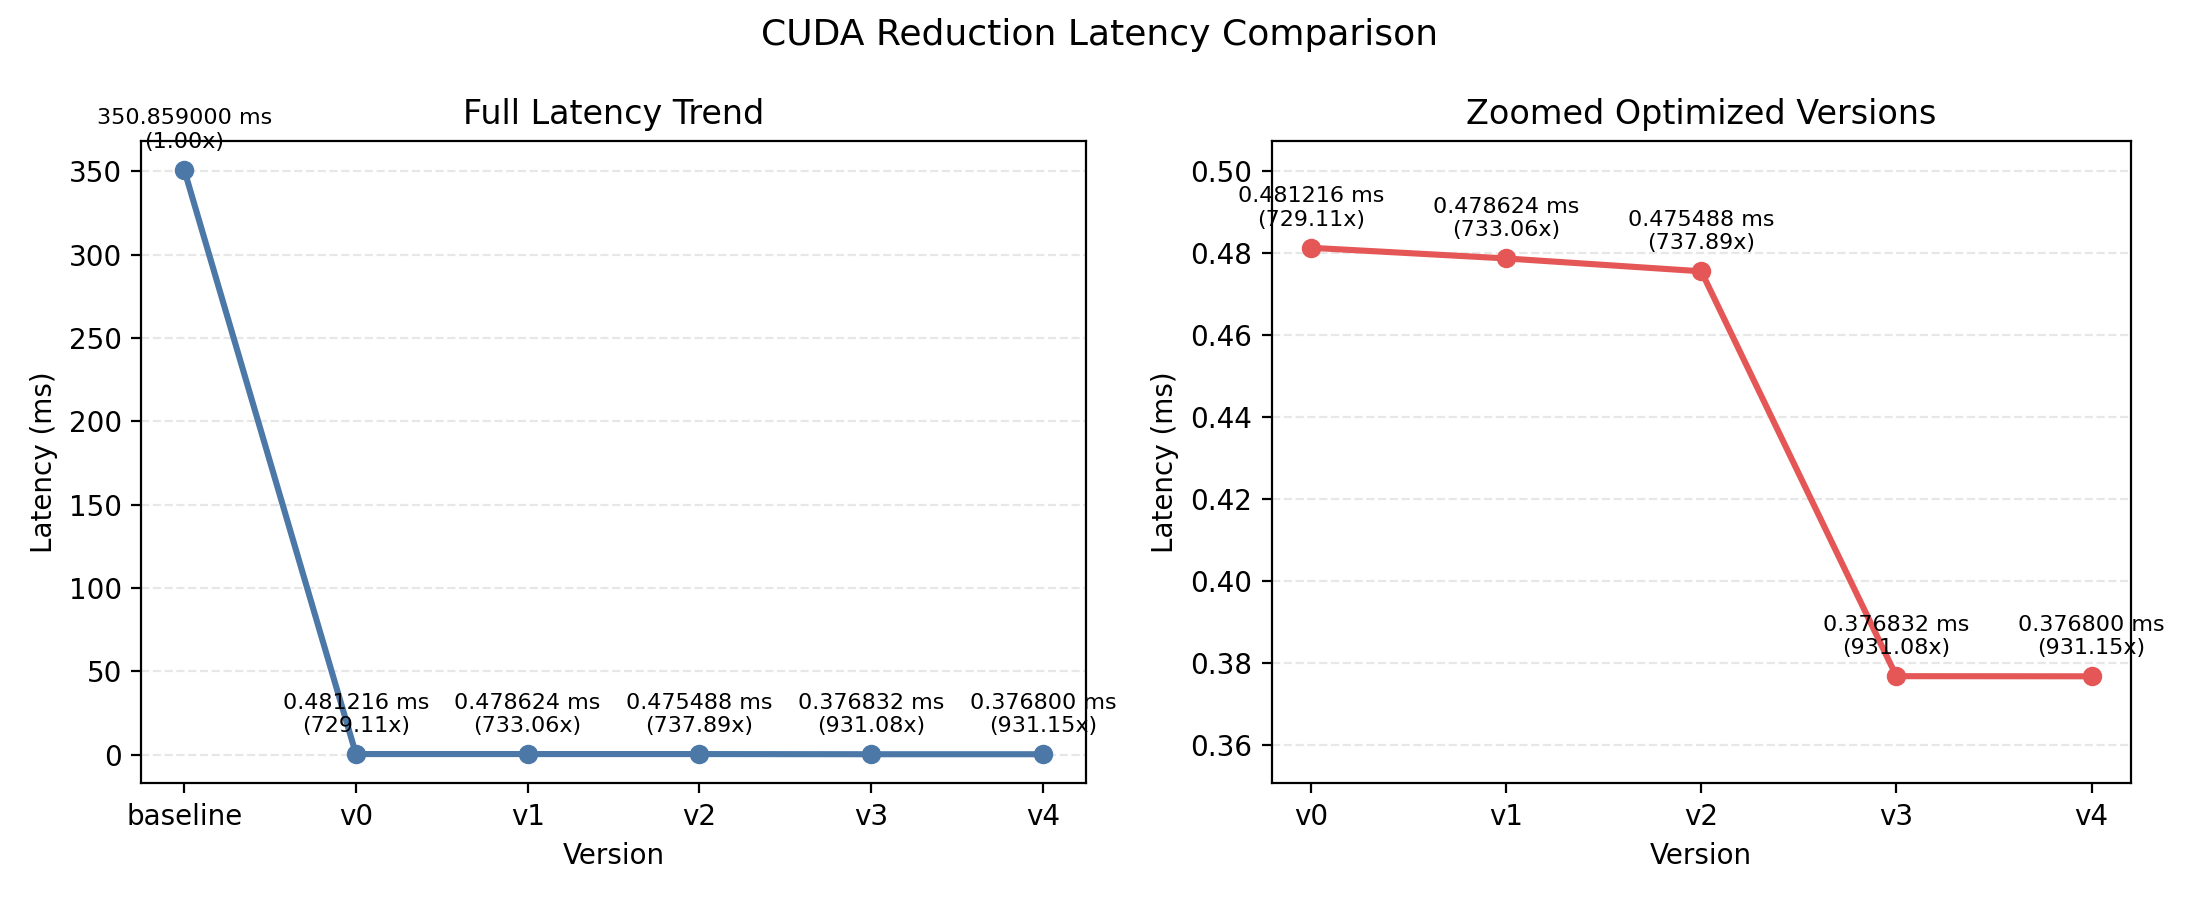
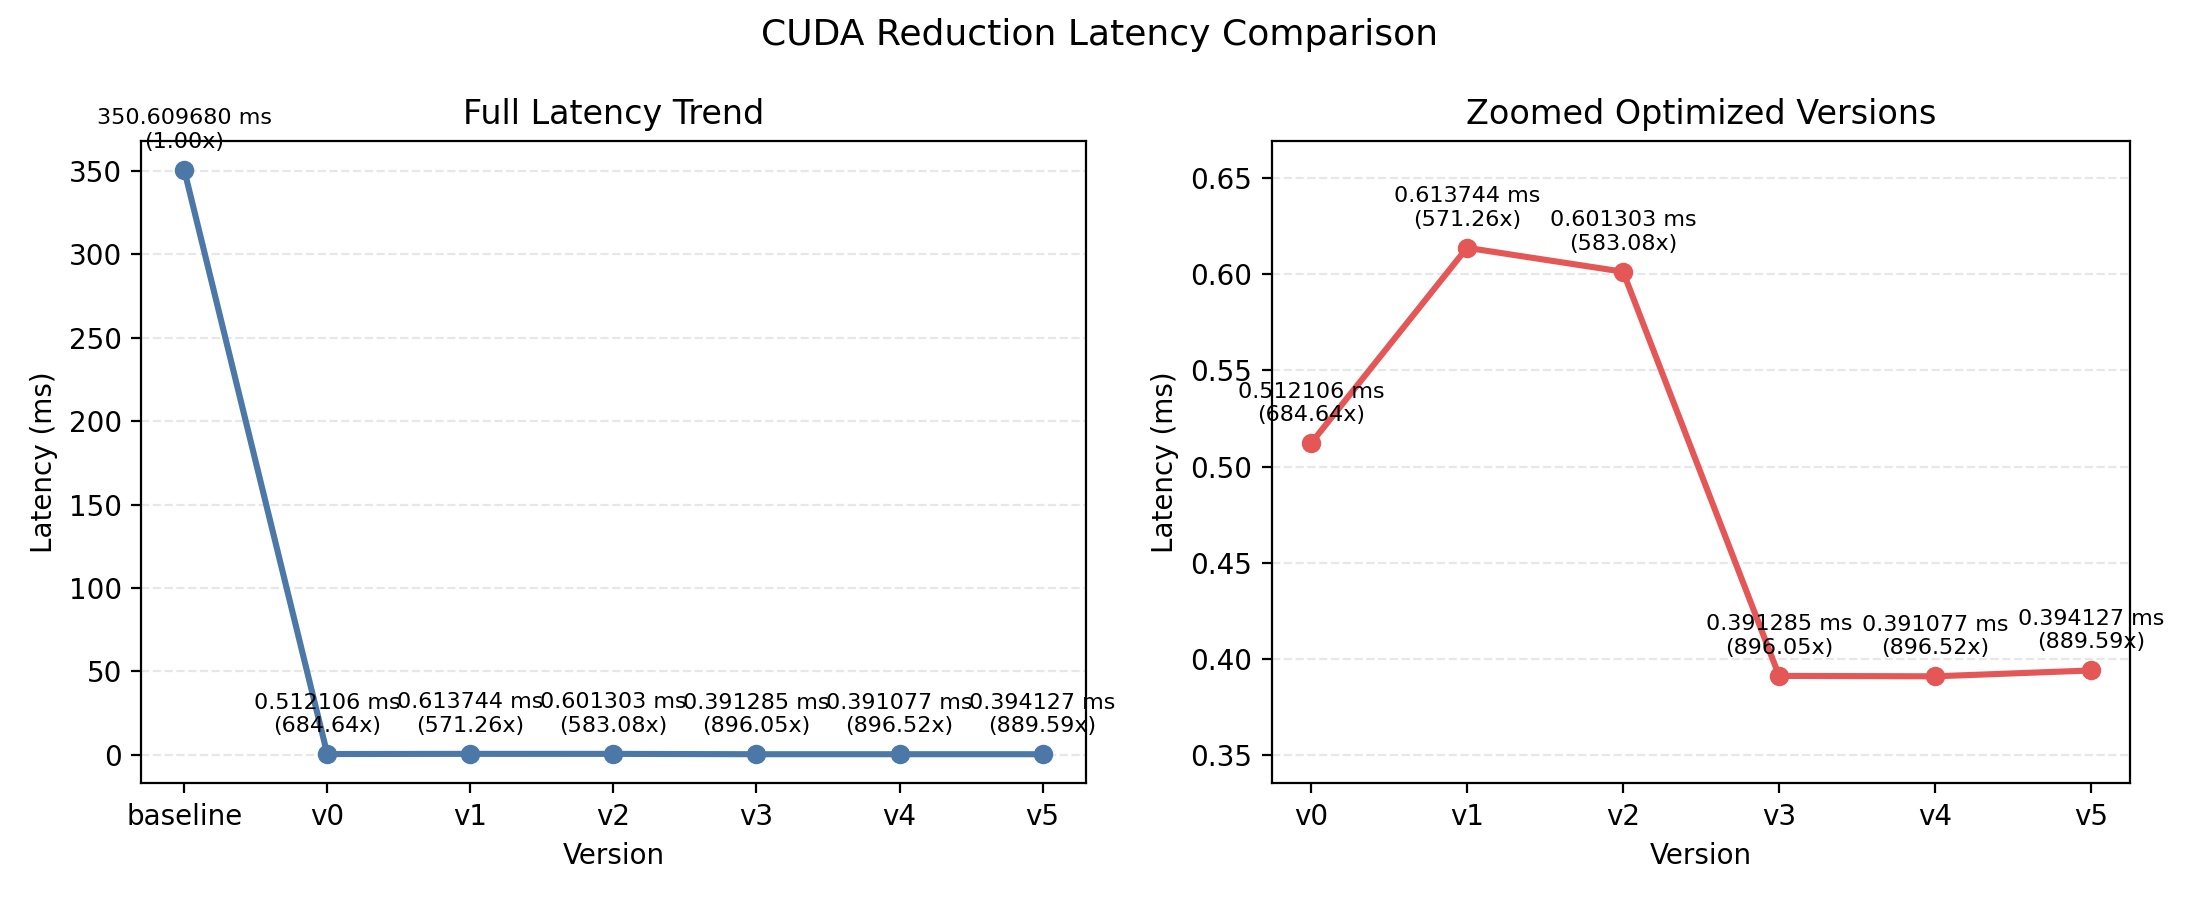
docs: refresh benchmark records and regenerated figures

diff --git a/project-proof/docs/experiment-summary.md b/project-proof/docs/experiment-summary.md
@@ -1,22 +1,23 @@
-# CUDA Reduction 实验总结（baseline ~ v4）
+# CUDA Reduction 实验总结（baseline ~ v5）
 
 ## 1) 实验目标
-验证 CUDA reduction 从 `baseline` 到 `v4` 的优化收益，比较各版本在同一输入规模下的正确性与延迟表现。
+验证 CUDA reduction 从 `baseline` 到 `v5` 的优化收益，比较各版本在同一输入规模下的正确性与延迟表现。
 
 ## 2) 核心结论
-- 所有版本（`baseline`、`v0`、`v1`、`v2`、`v3`、`v4`）均与 CPU 结果一致，`Diff = 0`。
-- 优化后性能显著提升：`v4` 延迟为 `0.376800 ms`，相对 `baseline`（`350.859 ms`）达到 **`931.15x`** 加速。
-- `v3` 与 `v4` 表现非常接近，`v4` 略优于 `v3`（`0.376800 ms` vs `0.376832 ms`）。
+- 所有版本（`baseline`、`v0`、`v1`、`v2`、`v3`、`v4`、`v5`）均与 CPU 结果一致，`Diff = 0`。
+- 当前最优版本为 `v4`：`0.360384 ms`，相对 `baseline`（`350.616 ms`）达到 **`972.90x`** 加速。
+- `v5` 延迟为 `0.365568 ms`，与 `v4` 接近，但本次实测略慢于 `v4`。
 
 ## 3) 结果总表
 | version | cpu_result | gpu_result | diff | latency_ms | speedup_vs_baseline | correctness_pass |
 |---|---:|---:|---:|---:|---:|---|
-| baseline | 1.67772e+07 | 1.67772e+07 | 0 | 350.859000 | 1.00x | true |
-| v0 | 1.67772e+07 | 1.67772e+07 | 0 | 0.481216 | 729.11x | true |
-| v1 | 1.67772e+07 | 1.67772e+07 | 0 | 0.478624 | 733.06x | true |
-| v2 | 1.67772e+07 | 1.67772e+07 | 0 | 0.475488 | 737.89x | true |
-| v3 | 1.67772e+07 | 1.67772e+07 | 0 | 0.376832 | 931.08x | true |
-| v4 | 1.67772e+07 | 1.67772e+07 | 0 | 0.376800 | 931.15x | true |
+| baseline | 1.67772e+07 | 1.67772e+07 | 0 | 350.616000 | 1.00x | true |
+| v0 | 1.67772e+07 | 1.67772e+07 | 0 | 0.469760 | 746.37x | true |
+| v1 | 1.67772e+07 | 1.67772e+07 | 0 | 0.467968 | 749.23x | true |
+| v2 | 1.67772e+07 | 1.67772e+07 | 0 | 0.456000 | 768.89x | true |
+| v3 | 1.67772e+07 | 1.67772e+07 | 0 | 0.378624 | 926.03x | true |
+| v4 | 1.67772e+07 | 1.67772e+07 | 0 | 0.360384 | 972.90x | true |
+| v5 | 1.67772e+07 | 1.67772e+07 | 0 | 0.365568 | 959.10x | true |
 
 ## 4) 环境与配置
 - GPU: `NVIDIA GeForce RTX 4070 Laptop GPU`（`8188 MiB`）
@@ -38,5 +39,5 @@
 
 ## 6) 简要分析
 - `baseline` 使用近似串行的 GPU 归约方式，延迟远高于优化版本。
-- `v0`~`v2` 带来稳定提升，但幅度相对接近（约 `729x` 到 `738x`）。
-- `v3/v4` 是本轮最有效的优化阶段，速度提升到约 `931x`，并保持与 CPU 数值一致。
+- `v0`~`v2` 带来稳定提升，但幅度相对接近（约 `746x` 到 `769x`）。
+- `v3`~`v5` 进一步拉高性能，其中 `v4` 达到本次峰值（`972.90x`），`v5` 与其接近但略有回退。

diff --git a/README.md b/README.md
@@ -3,19 +3,20 @@
 A handwritten CUDA reduction project for learning, benchmarking, and documenting kernel optimization.
 
 ## what this project shows
-- step-by-step CUDA reduction optimization from `baseline` to `v4`
-- multiple kernel strategies (`baseline`, `v0`, `v1`, `v2`, `v3`, `v4`)
+- step-by-step CUDA reduction optimization from `baseline` to `v5`
+- multiple kernel strategies (`baseline`, `v0`, `v1`, `v2`, `v3`, `v4`, `v5`)
 - correctness verification against a CPU reference on each version
 - reproducible benchmark records, plots, and summary docs in `project-proof/`
 
 ## latest benchmark snapshot
 - input size: `N = 1 << 24`
-- baseline: `350.859 ms`
-- v0: `0.481216 ms` (`729.11x`)
-- v1: `0.478624 ms` (`733.06x`)
-- v2: `0.475488 ms` (`737.89x`)
-- v3: `0.376832 ms` (`931.08x`)
-- v4: `0.376800 ms` (`931.15x`)
+- baseline: `350.616 ms`
+- v0: `0.469760 ms` (`746.37x`)
+- v1: `0.467968 ms` (`749.23x`)
+- v2: `0.456000 ms` (`768.89x`)
+- v3: `0.378624 ms` (`926.03x`)
+- v4: `0.360384 ms` (`972.90x`)
+- v5: `0.365568 ms` (`959.10x`)
 - correctness: all GPU versions matched CPU (`Diff = 0`)
 
 ## repository layout
